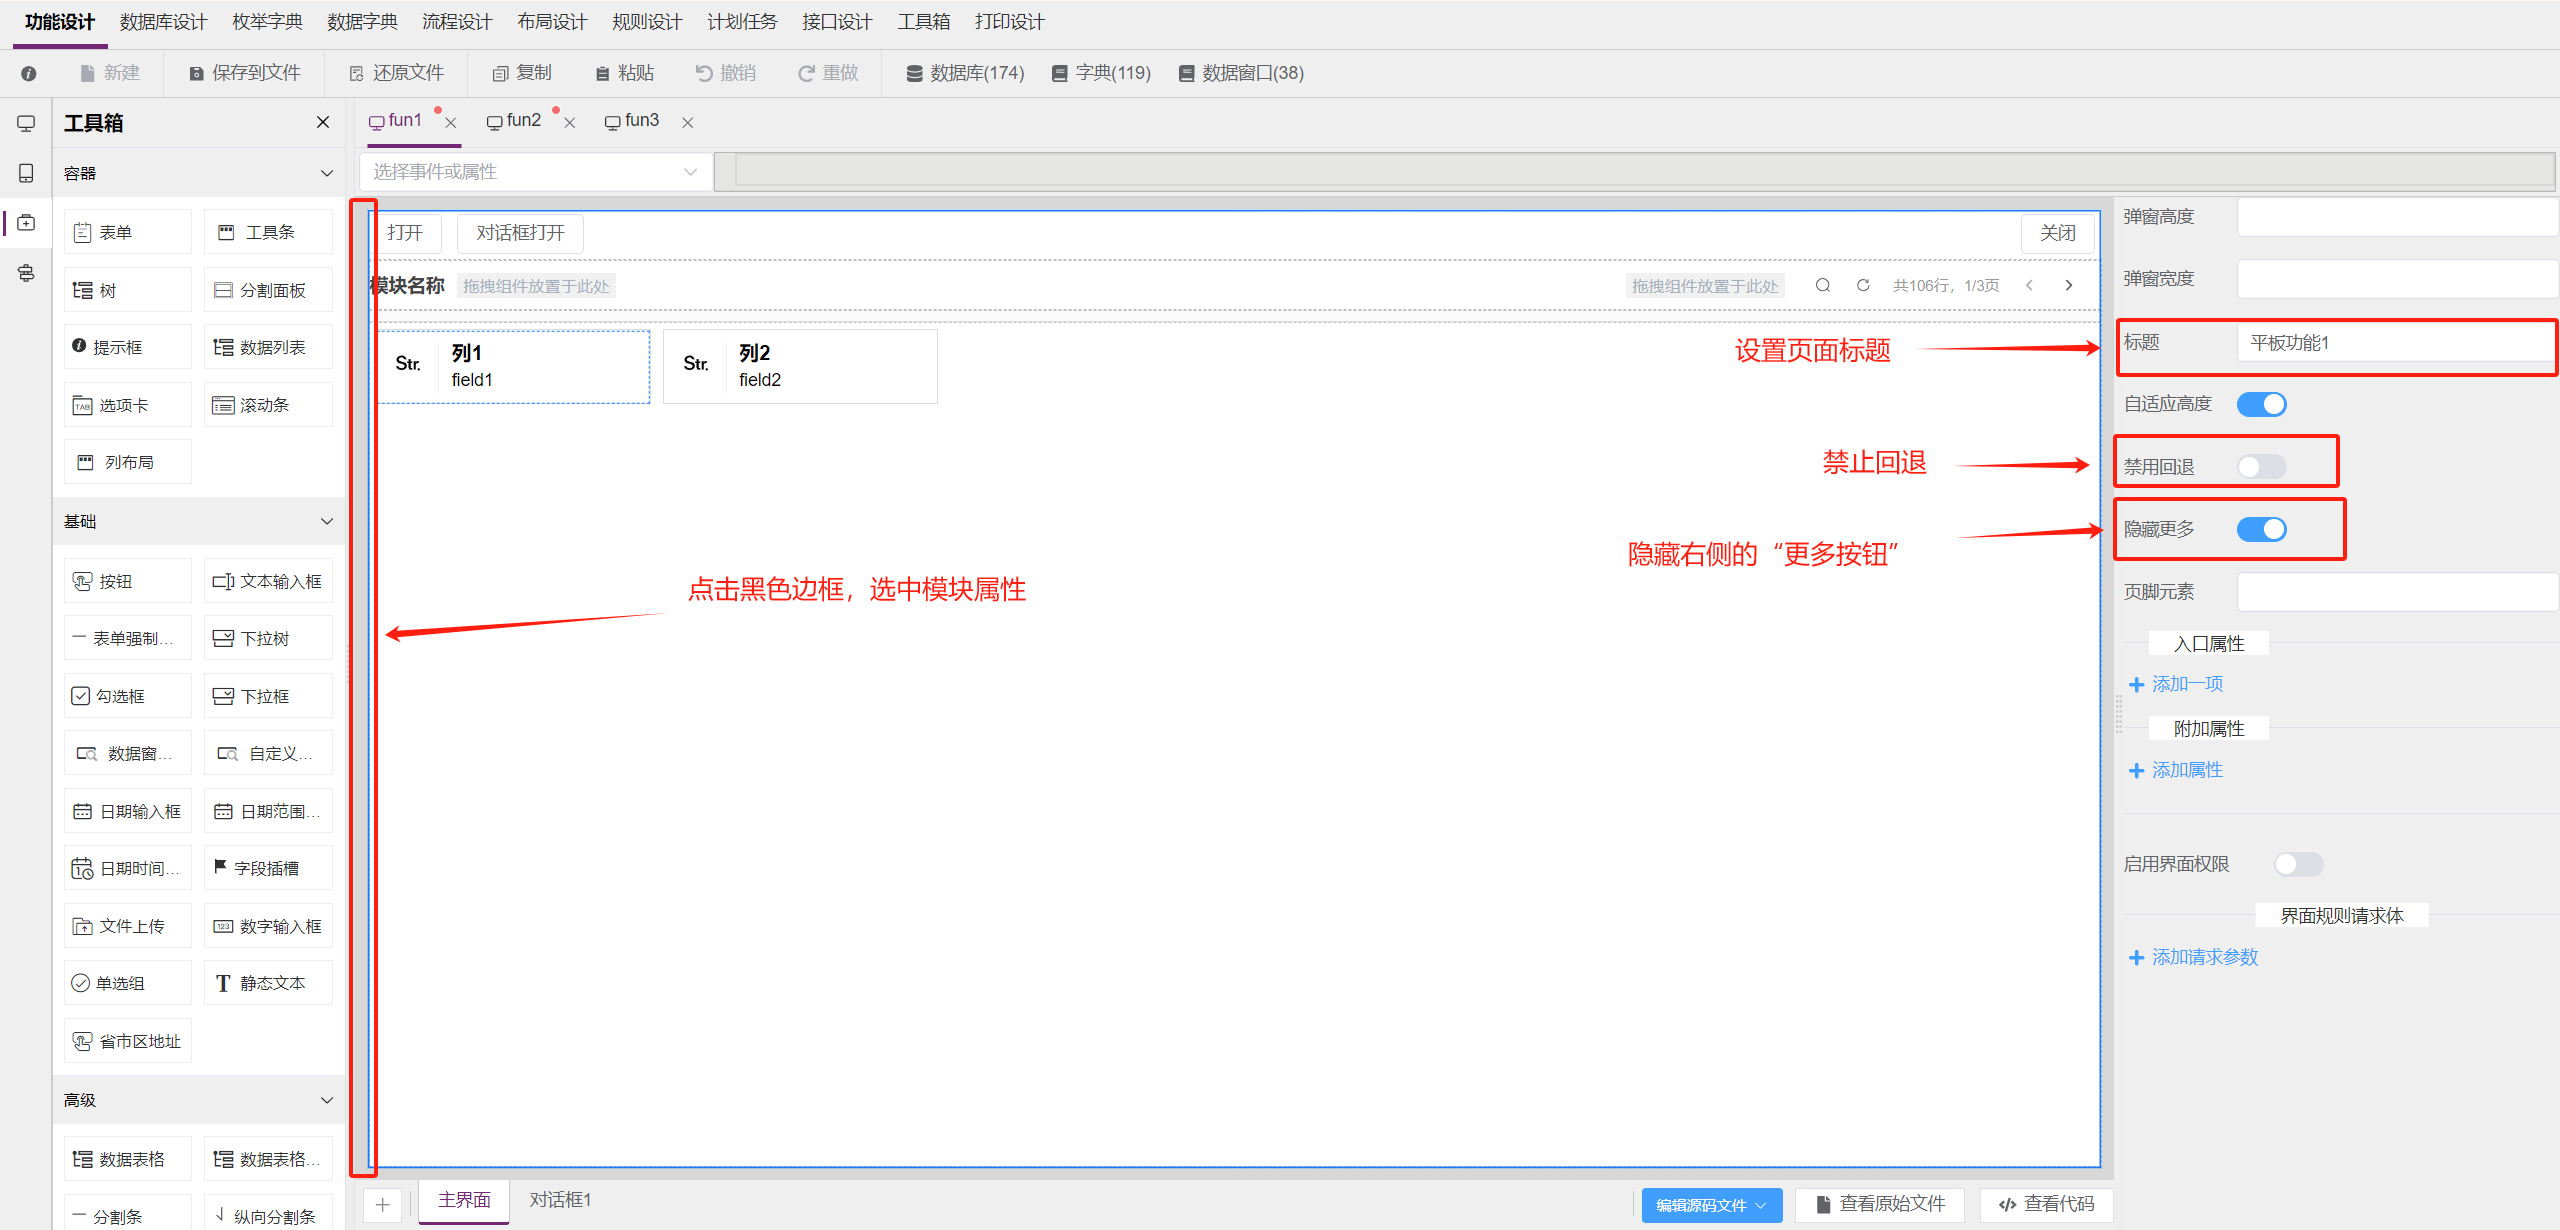
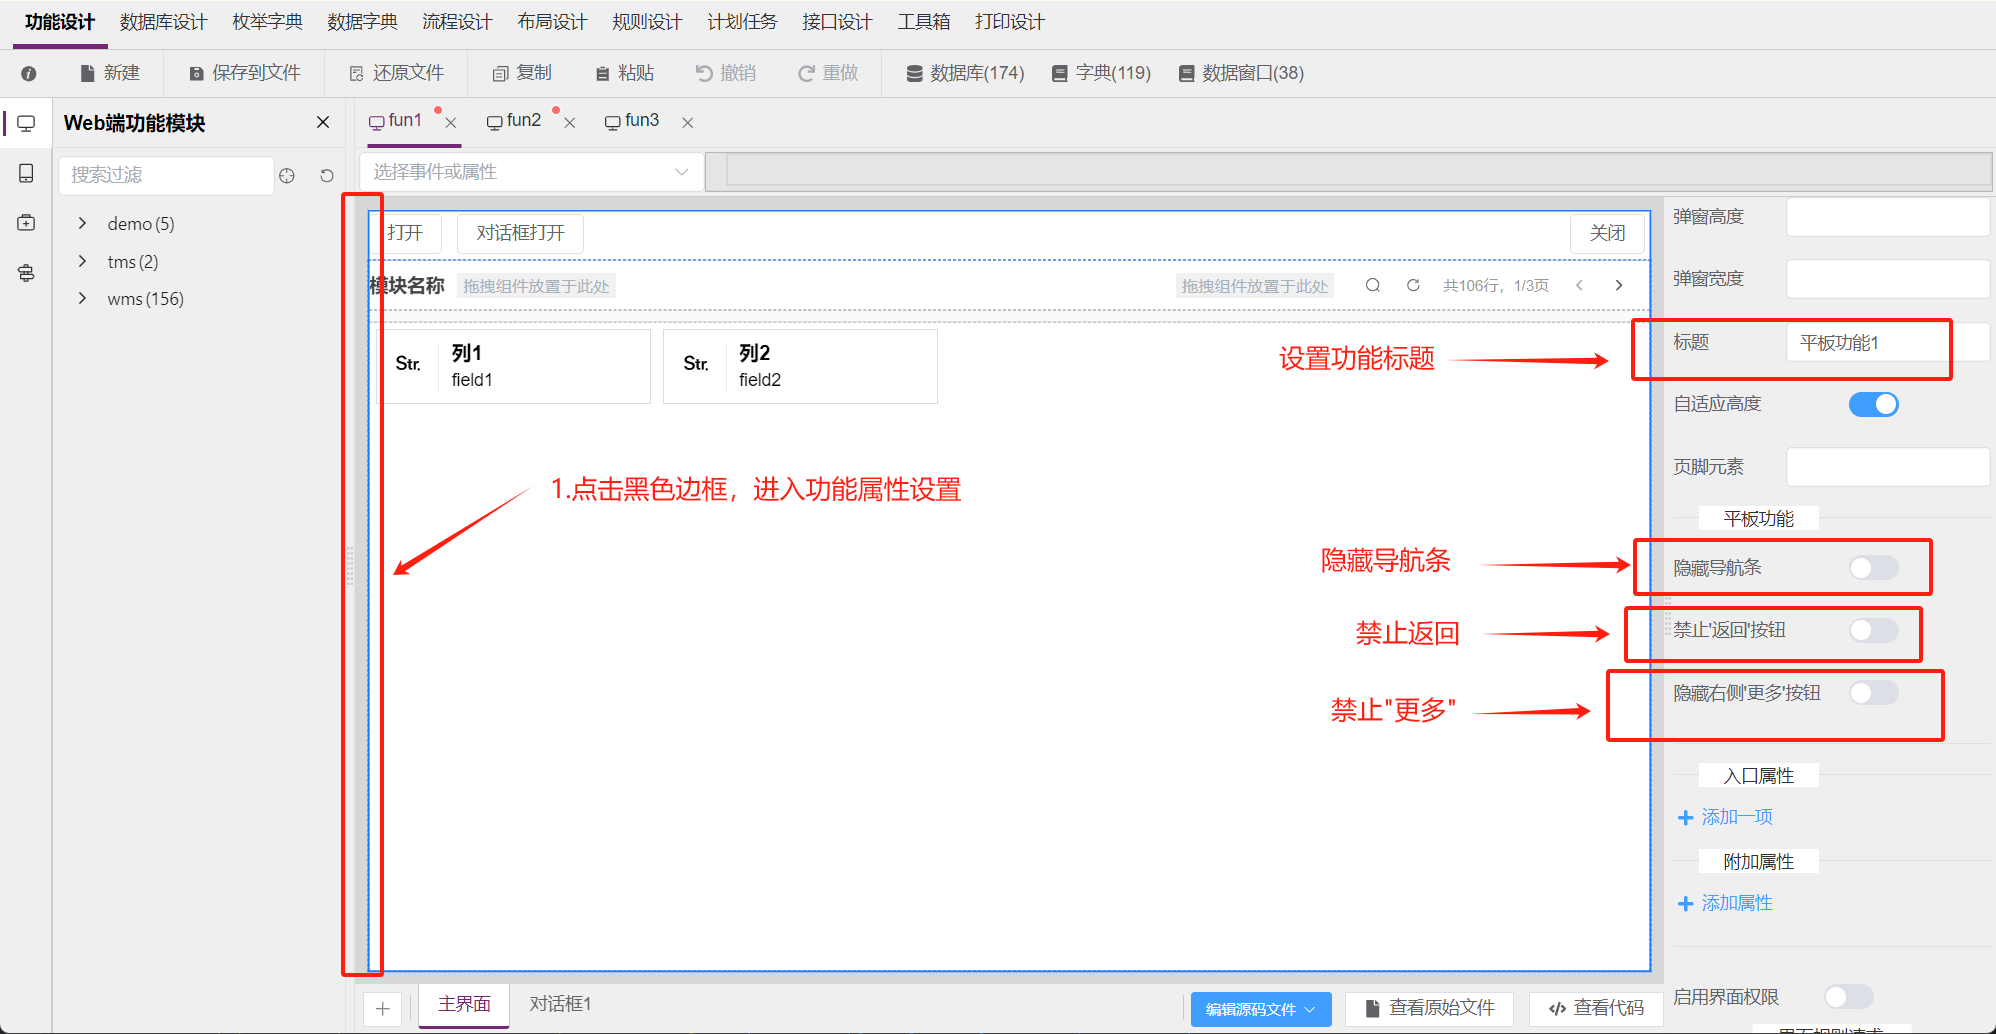
change

diff --git a/docs/yvanui/02_pages/01_zexample5.md b/docs/yvanui/02_pages/01_zexample5.md
@@ -7,6 +7,12 @@ author: yvan
 # 平板应用开发
 平板应用，二开和布局与PC端一致，但是需要考虑到平板的特性，比如屏幕小，操作方式不同等。
 
+## 主屏幕
+![[01_zexample5/img06.png]]
+- 中央屏幕九宫格，点击后进入菜单
+- 右上角第一个按钮，选择仓库
+- 右上角第二个按钮，选择设置，可以"退出登录"、"进行应用设置"
+
 ## 进入应用设置
 ![[01_zexample5/img01.png]]
 
@@ -21,12 +27,18 @@ author: yvan
 - 角色赋权，与PC端完全一致
 - ![[01_zexample5/img03.png]]
 
+## 功能页面
+![[01_zexample5/img07.png]]
+- 与PC端不同，功能页面多出一个导航条
+- 导航条中间显示功能标题
+- 导航条左侧有“返回”按钮，点击后返回上一个页面
+- 导航条右侧有“更多”按钮，点击后显示更多操作，可以设置键盘、进入开发等
+
 ## 设置页面基本信息
 - title 页面标题
 - disableBack 禁止'返回'按钮
 - hideMenuButton 隐藏右侧'更多'按钮
   ![[01_zexample5/img04.png]]
-
 
 ## showPage 叠加页面
 如何需要在当前页面叠加一个新的页面，可以使用 `system.showPage` 方法，
